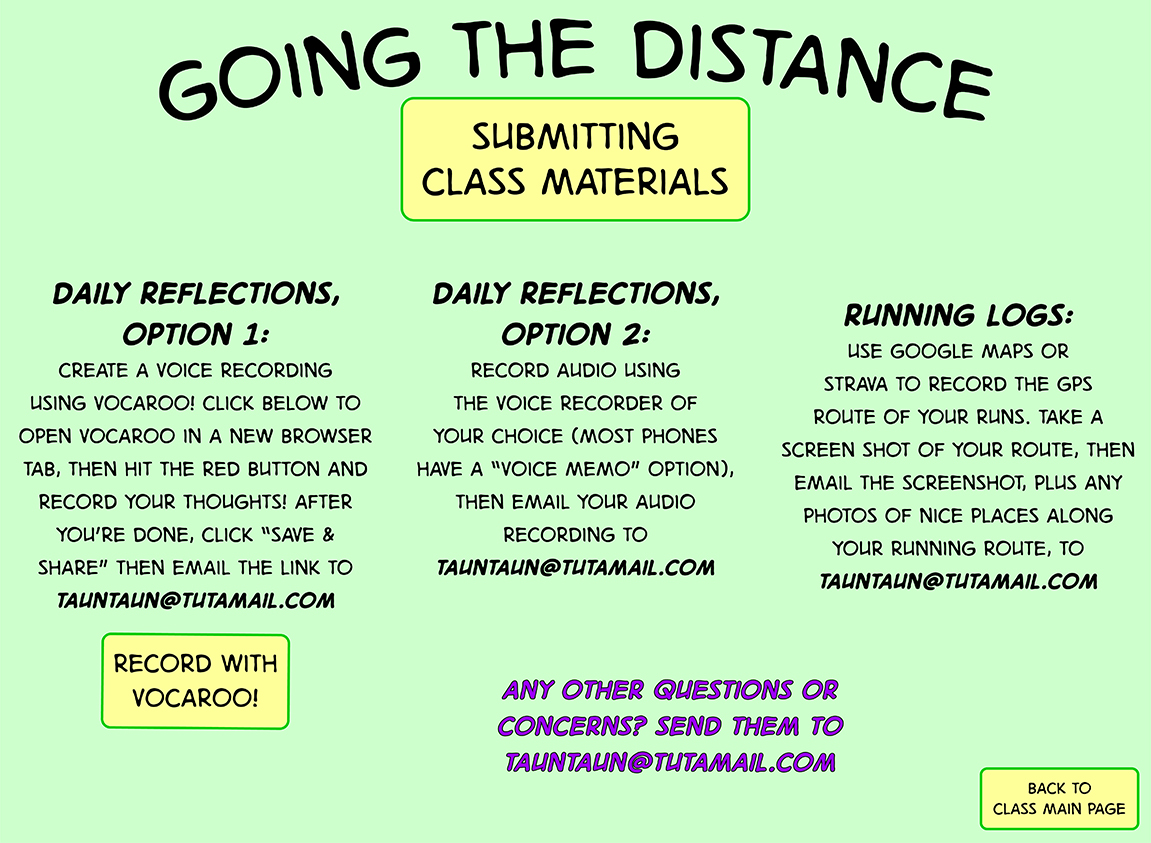
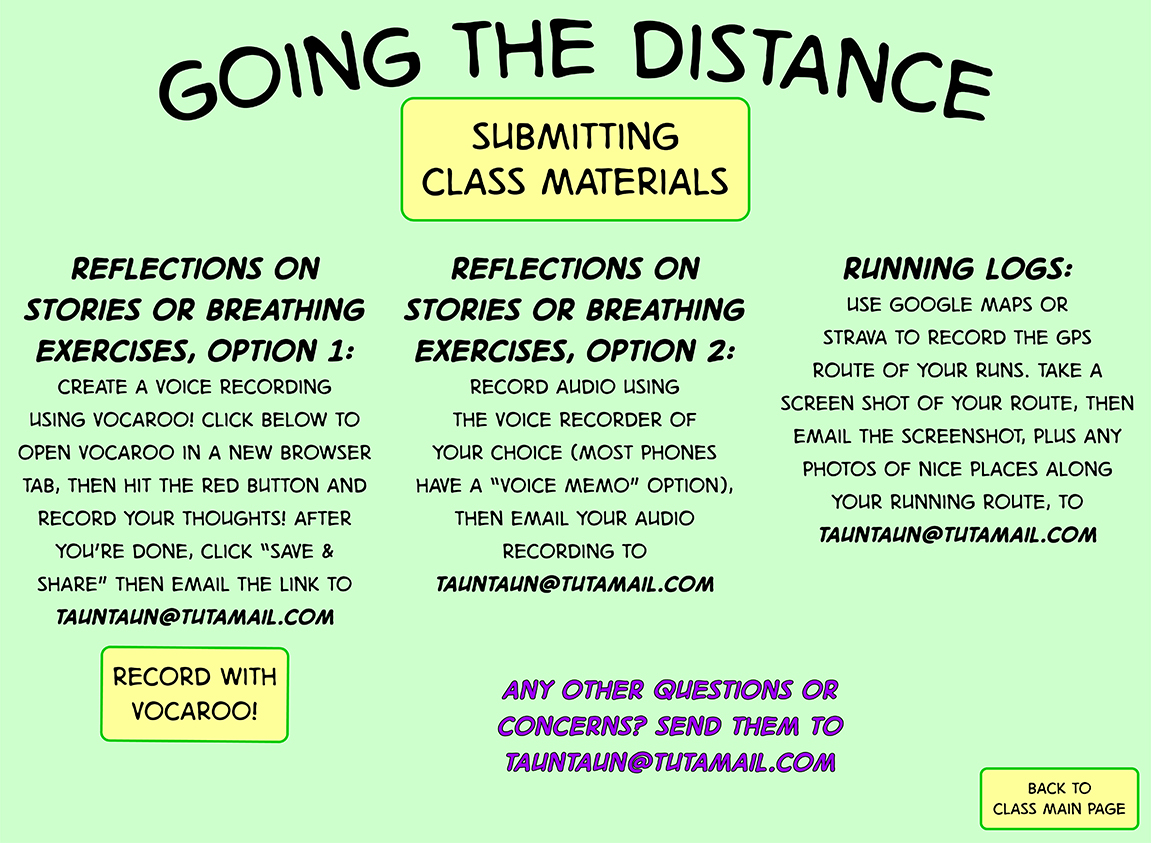
updated instructions and vocaroo link

Changed region(s): [[0.0, 0.2776, 0.669, 0.8944], [0.669, 0.3084, 1.0, 0.7094]]

diff --git a/classroom_tauntaun_submissions.html b/classroom_tauntaun_submissions.html
@@ -13,7 +13,7 @@
 <center><img src="assets/maps/classroom_tauntaun_submit.jpg" usemap="#image-map"></center>
 
 <map name="image-map">
-    <area target="_blank" alt="Vocaroo" title="Vocaroo" href="https://vocaroo.com/" coords="99,634,291,731" shape="rect">
+    <area target="_blank" alt="Vocaroo" title="Vocaroo" href="https://vocaroo.com/" coords="101,648,287,743" shape="rect">
     <area target="" alt="Email Tauntaun" title="Email Tauntaun" href="mailto:tauntaun@tutamail.com?subject=Submission for Going the Distance (AICL 2020) " coords="493,674,849,776" shape="rect">
     <area target="" alt="Back to Class Main Page" title="Back to Class Main Page" href="https://aicl2020.github.io/classroom_tauntaun_main.html" coords="976,767,1140,829" shape="rect">
 </map>
